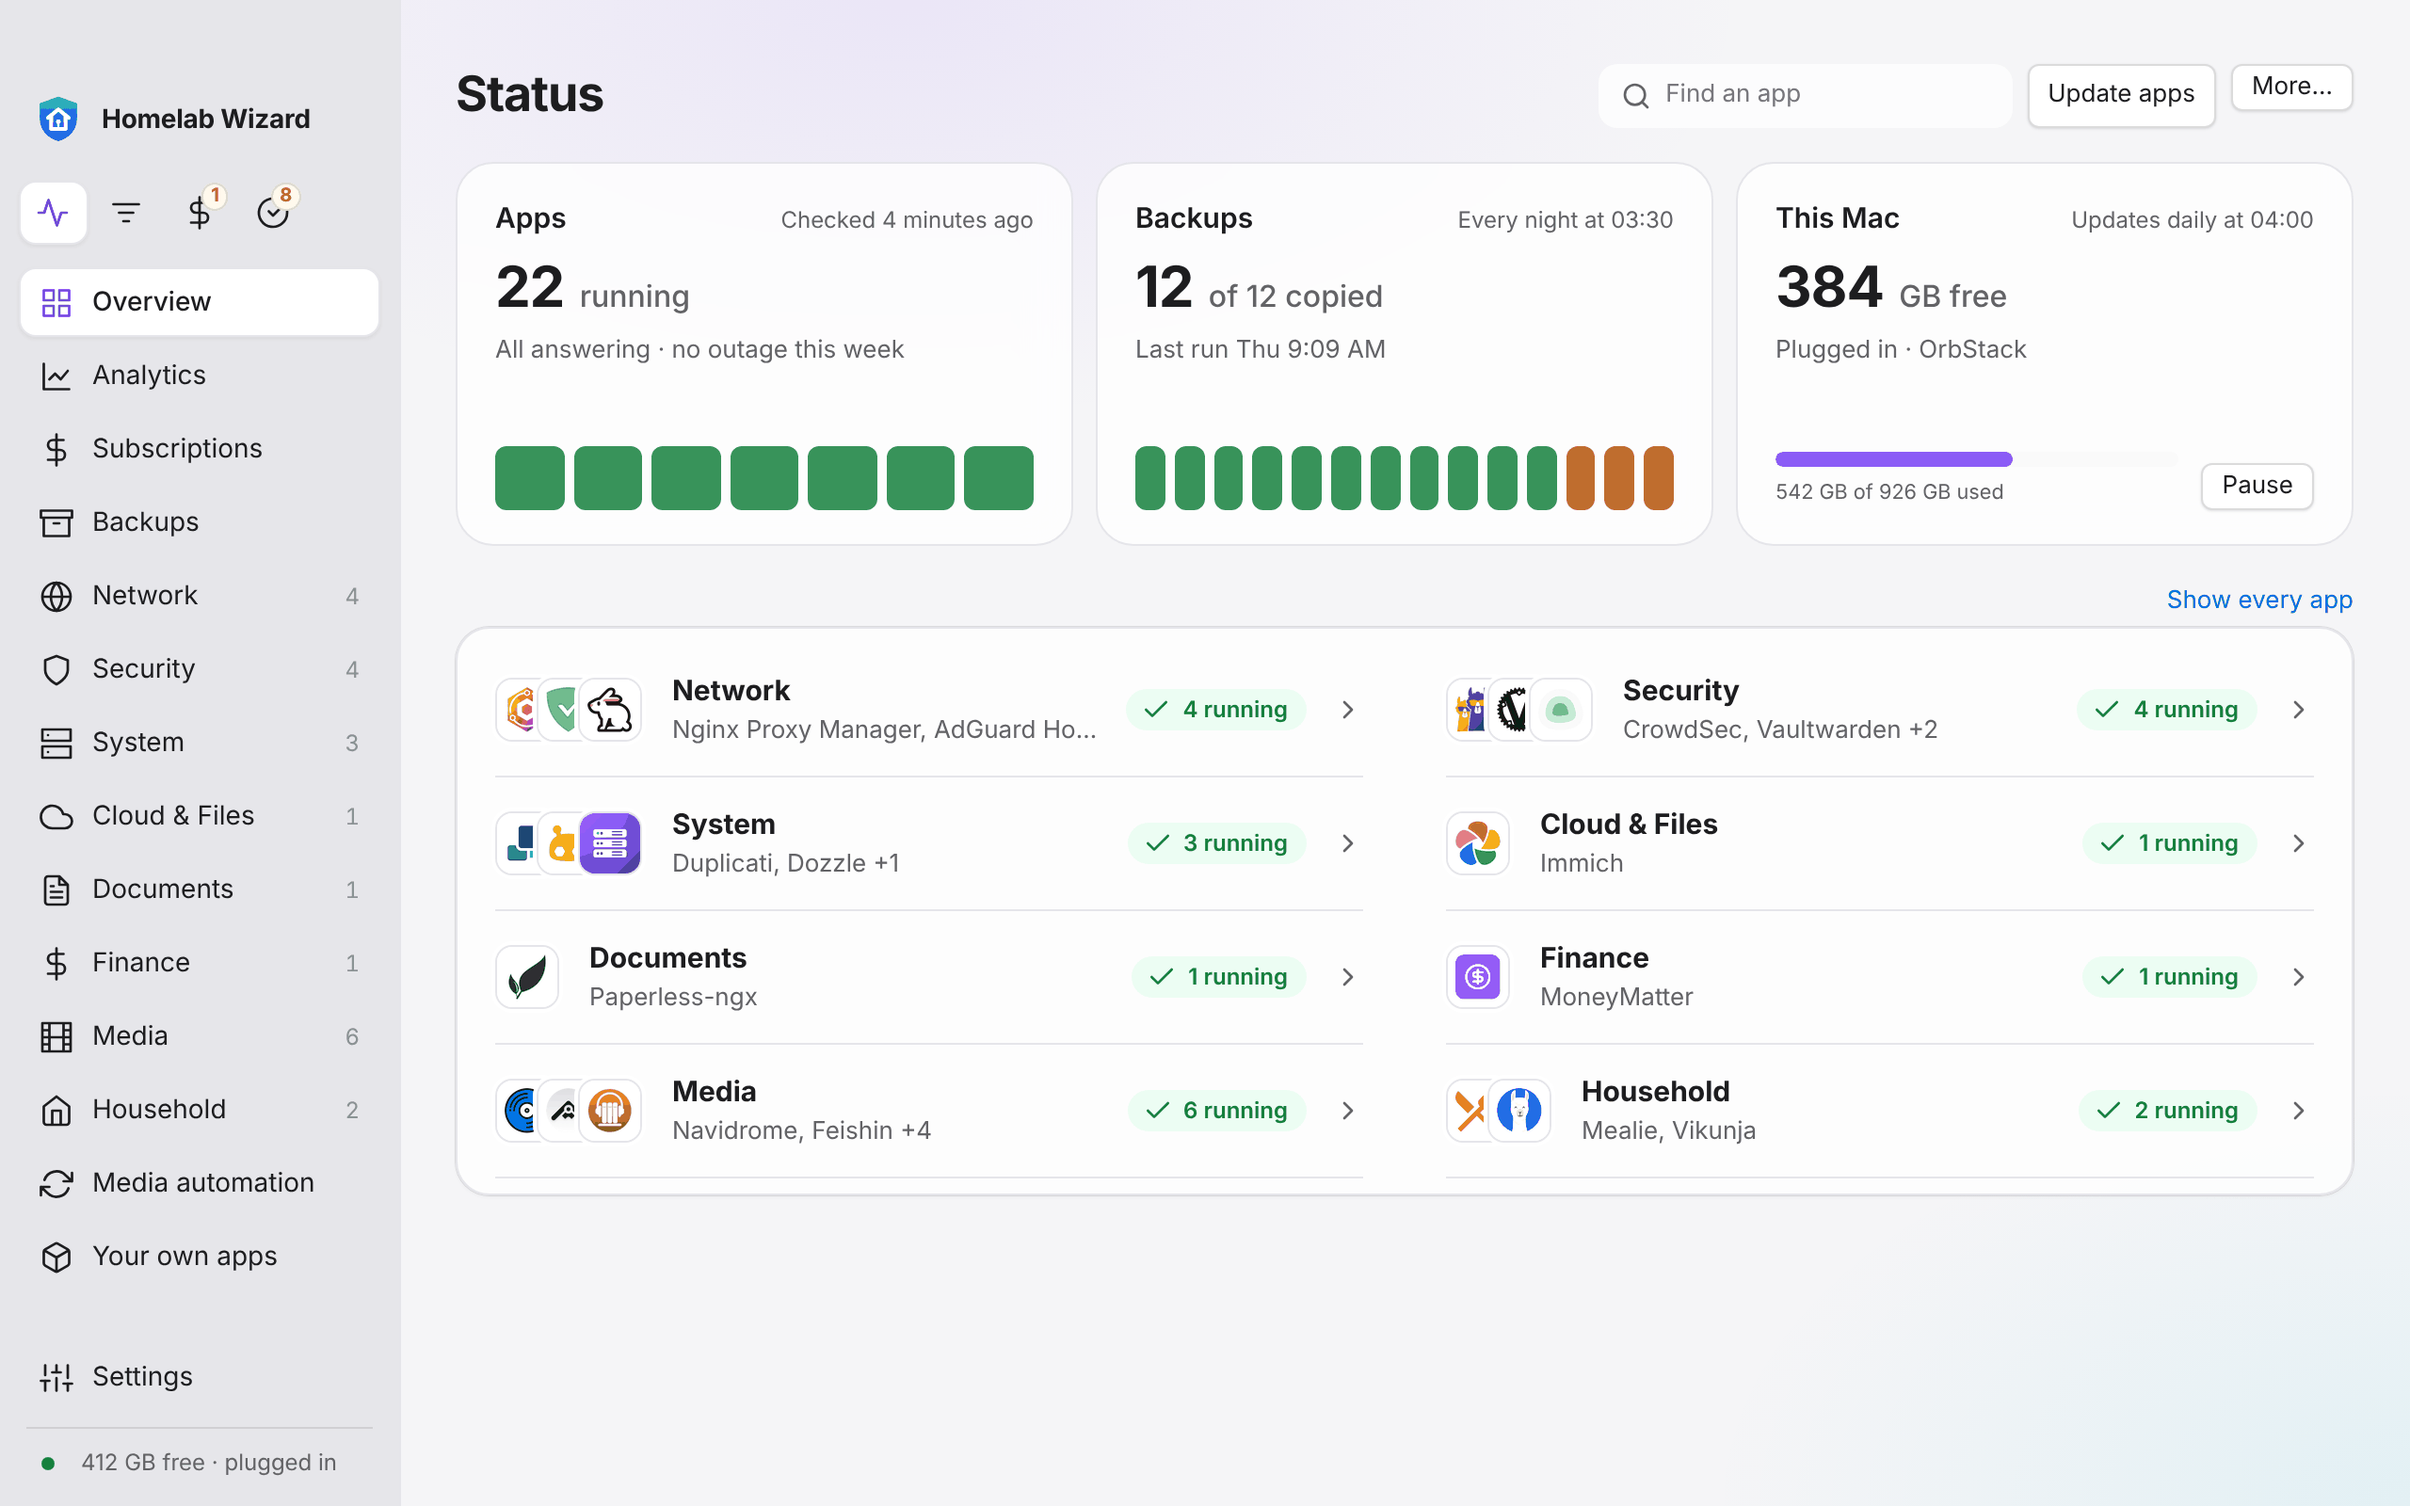
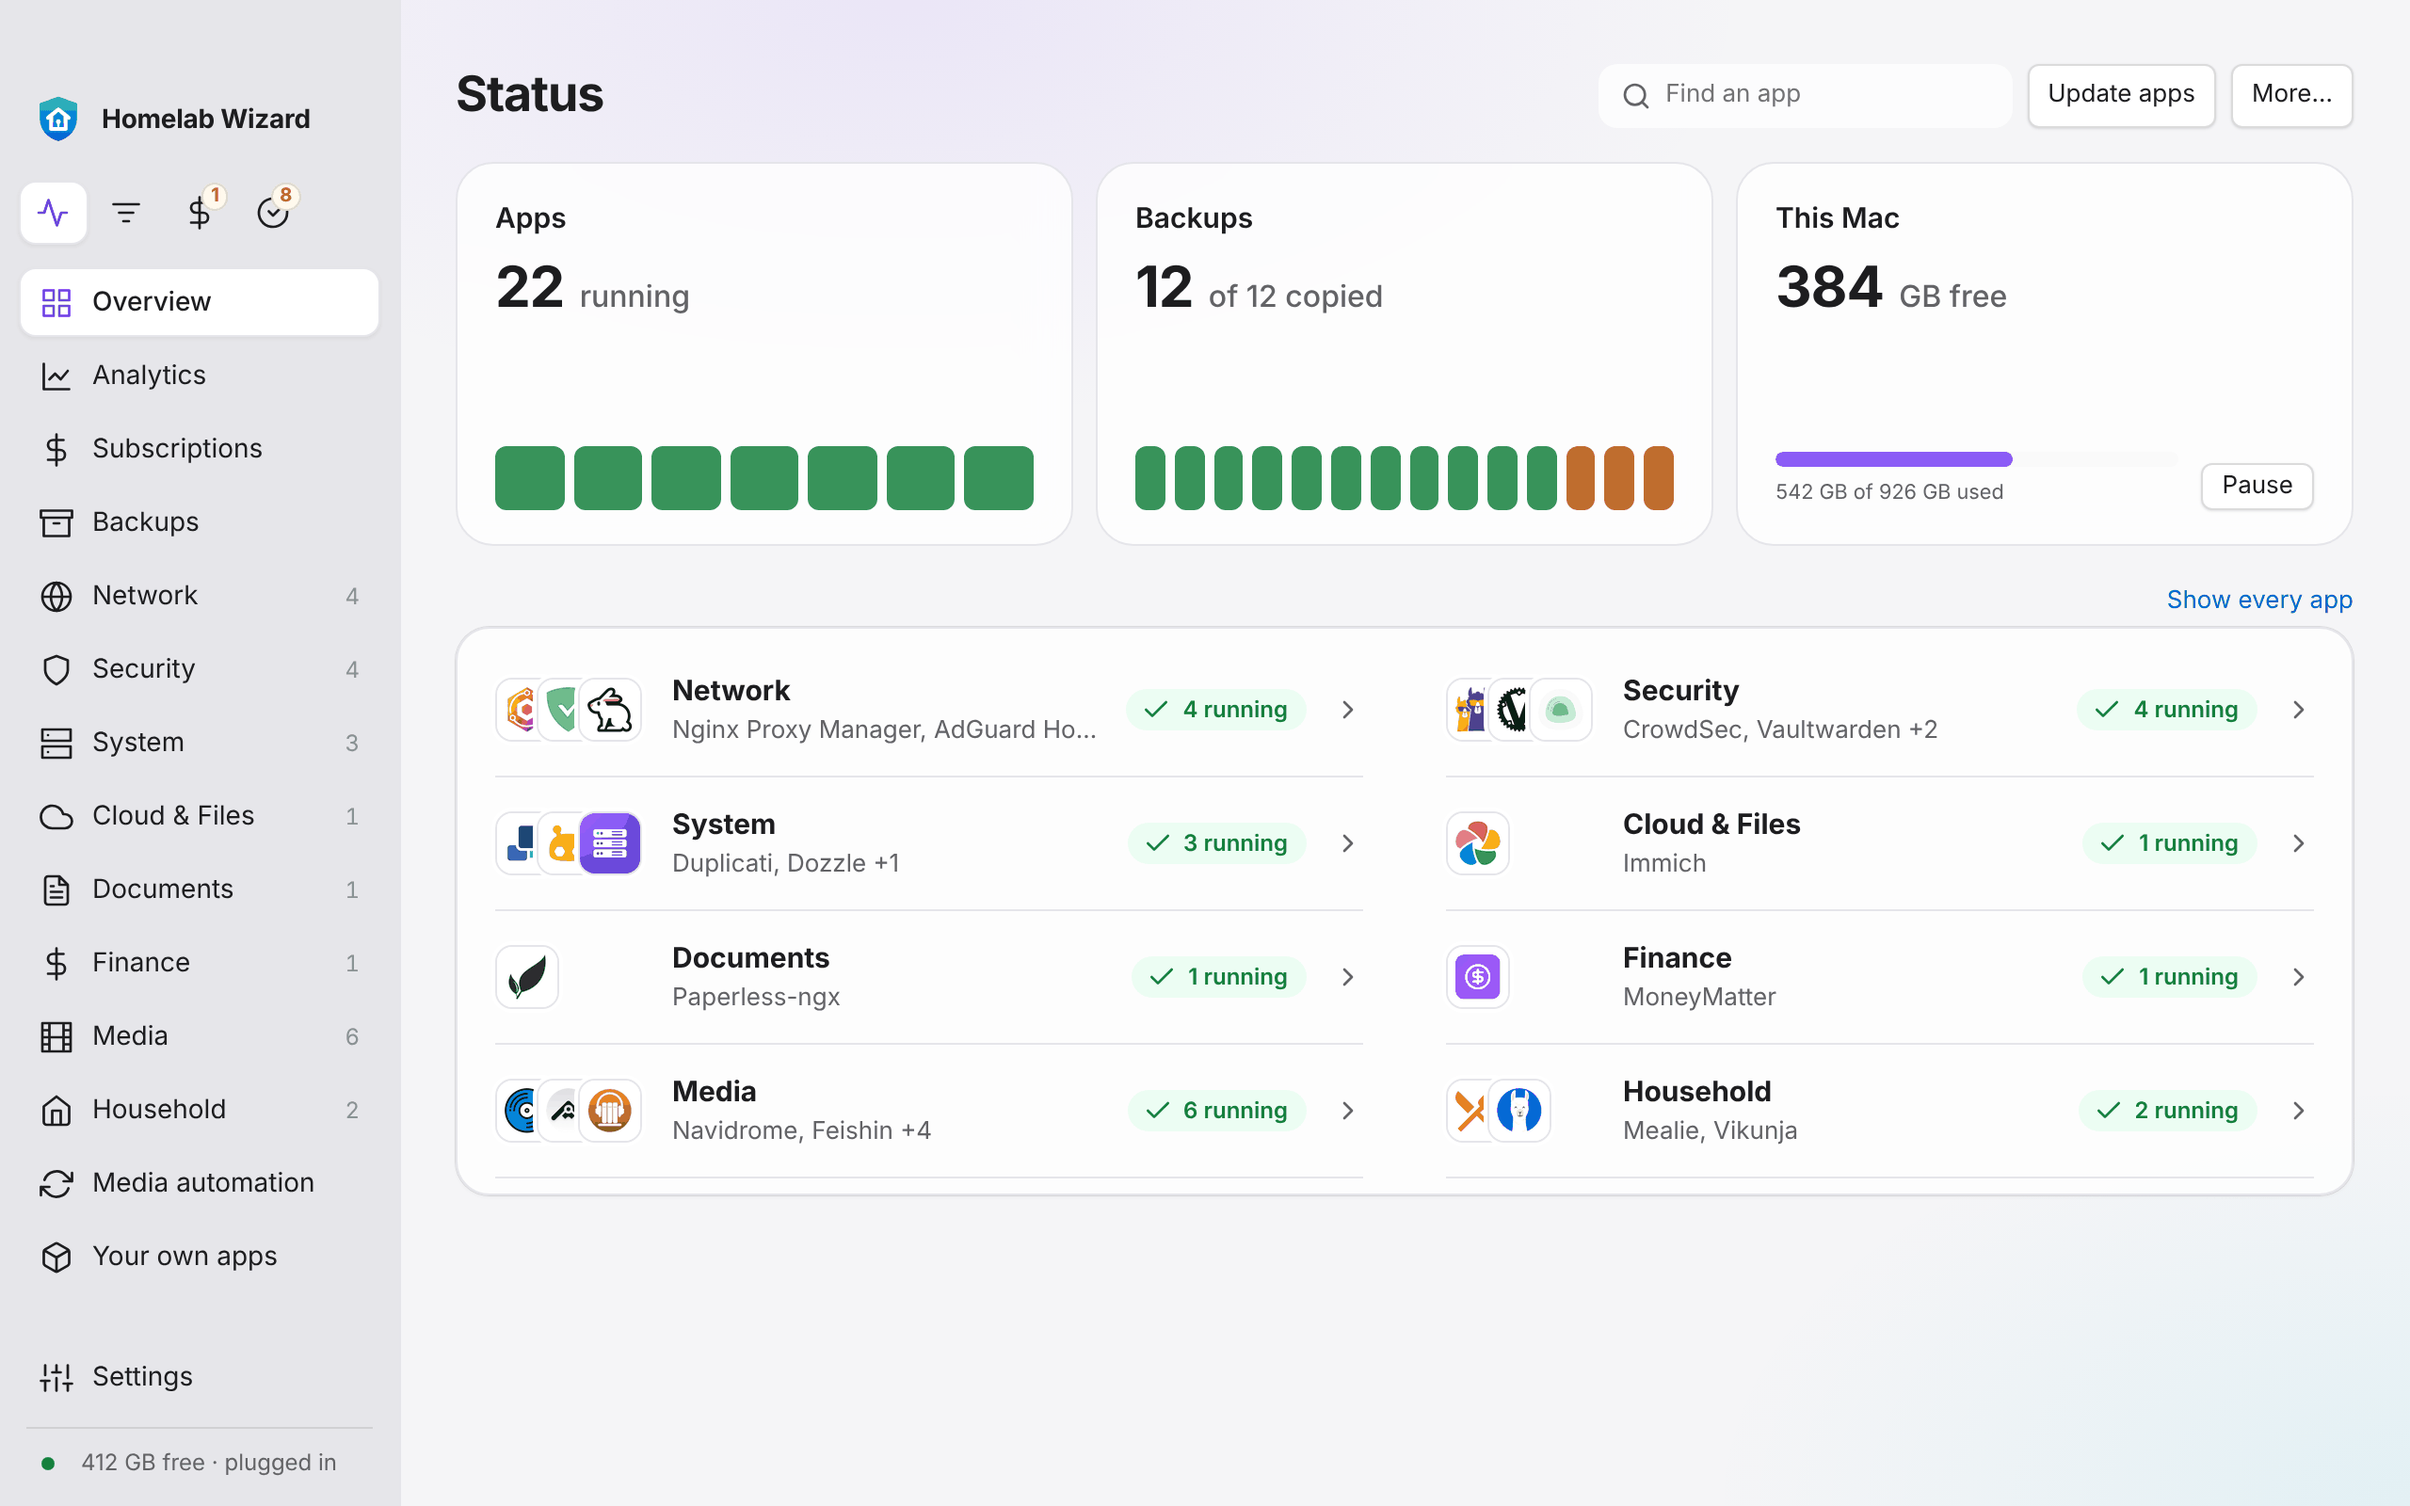
Status lines up: More… beside Update apps, category names in one column (#939)
More… in Status' toolbar now stretches with Update apps beside it, and
the Overview's category rows give their logos a fixed width, so each
name starts in the same place with one logo or three. The iPhone and
iPad rows do the same. A smoke check measures both.

Claude-Session: https://claude.ai/code/session_01MiSTxrm6MCnNDF7kXW7KV6

diff --git a/web/dist/style.css b/web/dist/style.css
@@ -376,6 +376,7 @@ html.user-accent, html.user-accent:is(.os-windows, .os-mac, .os-linux) { --accen
 }
 
 .menuwrap { position:relative; }
+.toolbar > .menuwrap { display:flex; }
 .menu { position:absolute; right:0; top:calc(100% + 6px); z-index:5; min-width:220px; padding:6px; background:var(--panel); border:1px solid var(--line); border-radius:10px; box-shadow:0 8px 24px var(--navy-shade-14); }
 .menu button { display:block; width:100%; text-align:left; padding:8px 10px; border:0; border-radius:6px; background:none; color:var(--text); font:inherit; }
 .menu button:hover, .menu button:focus-visible { background:var(--accent-soft); color:var(--link); }
@@ -3111,7 +3112,7 @@ nav .sidemenulist .sidedot + .total { margin-left:8px; }
 .ovrow { all:unset; box-sizing:border-box; display:flex; align-items:center; gap:14px; width:100%; padding:14px 0; cursor:default; }
 .ovrow:focus-visible { outline:2px solid var(--accent); outline-offset:2px; border-radius:8px; }
 .ovrow:hover strong { color:var(--link); }
-.ovlogos { display:flex; flex:none; }
+.ovlogos { display:flex; flex:none; width:72px; }
 .ovlogos .appmark.mini { width:34px; height:34px; border-radius:9px; margin-right:-6px; box-shadow:0 0 0 2px var(--panel); }
 .ovname { flex:1; min-width:0; display:flex; flex-direction:column; margin-left:8px; }
 .ovname strong { font-size:15px; }

diff --git a/apple-client/Shared/Views/StatusOverview.swift b/apple-client/Shared/Views/StatusOverview.swift
@@ -535,6 +535,7 @@ struct CategoryRow: View {
                     AppIconView(app: app, size: size, stateBadge: false)
                 }
             }
+            .frame(width: typeSize.isAccessibilitySize ? nil : size * 2.4, alignment: .leading)
             VStack(alignment: .leading, spacing: 2) {
                 Text(verbatim: category.label)
                     .font(.headline)

diff --git a/CHANGELOG.md b/CHANGELOG.md
@@ -326,6 +326,7 @@ Notes are grouped as **New**, **Improved**, and **Fixed**, one line each, in pla
 - **Bills on the Homelab app shows a pay period as the computer does:** on the iPhone and iPad, each pay period starts with whose paycheck it is, says what checking holds on payday once its own payments are out and what the period itself comes to, lists every account after it with what changed, and says under each bill how it's paid: its kind, on a card, from another account, or from someone else.
 - **The Homelab app's Transactions search finds what the computer's finds:** on the iPhone and iPad, search by what a charge came to (86.10 or 1,240.55), its day (Oct 28) or its account, as well as the payee, category, note or tag. Each word you type can be anywhere in the row, so *corner work* finds Corner Café tagged work.
 <!-- Everything else (the other lanes): add a line just below this one. -->
+- **Status lines up:** on the computer and the web page, *More…* sits level with *Update apps*, and each category's name starts in the same place whether it shows one logo or three. The same on the iPhone and iPad.
 - **Media automation tucked away on Status:** Seerr, where you ask for a film or show, now sits beside Jellyfin under Media. Prowlarr, Sonarr, Radarr and the other apps that find and download what you ask for sit last, folded under one line, *Media automation: finds and downloads what you ask for in Seerr*, and open with a click or when one needs a look. The Downloads card above says what they're getting.
 - **A download nobody is sharing no longer sits there:** after 6 hours stuck, Tidy Up hands it back to Sonarr, Radarr or Lidarr, which drop that release and look for another, and Recent activity says so. Downloads still moving, and ones you added to qBittorrent yourself, are left alone; *Try another after a stuck download* in Settings changes the hours, 0 turns it off.
 - **Connect apps says once, in plain words, when Sonarr, Radarr and Lidarr keep their own filing:** one line instead of the same warning three times, and no settings' code names. When it's because Tidy Up files downloads only when you press Tidy up now, a button (or, in the terminal, a yes) lets Tidy Up file them as they arrive and connects again, which hands them over to Tidy Up.
